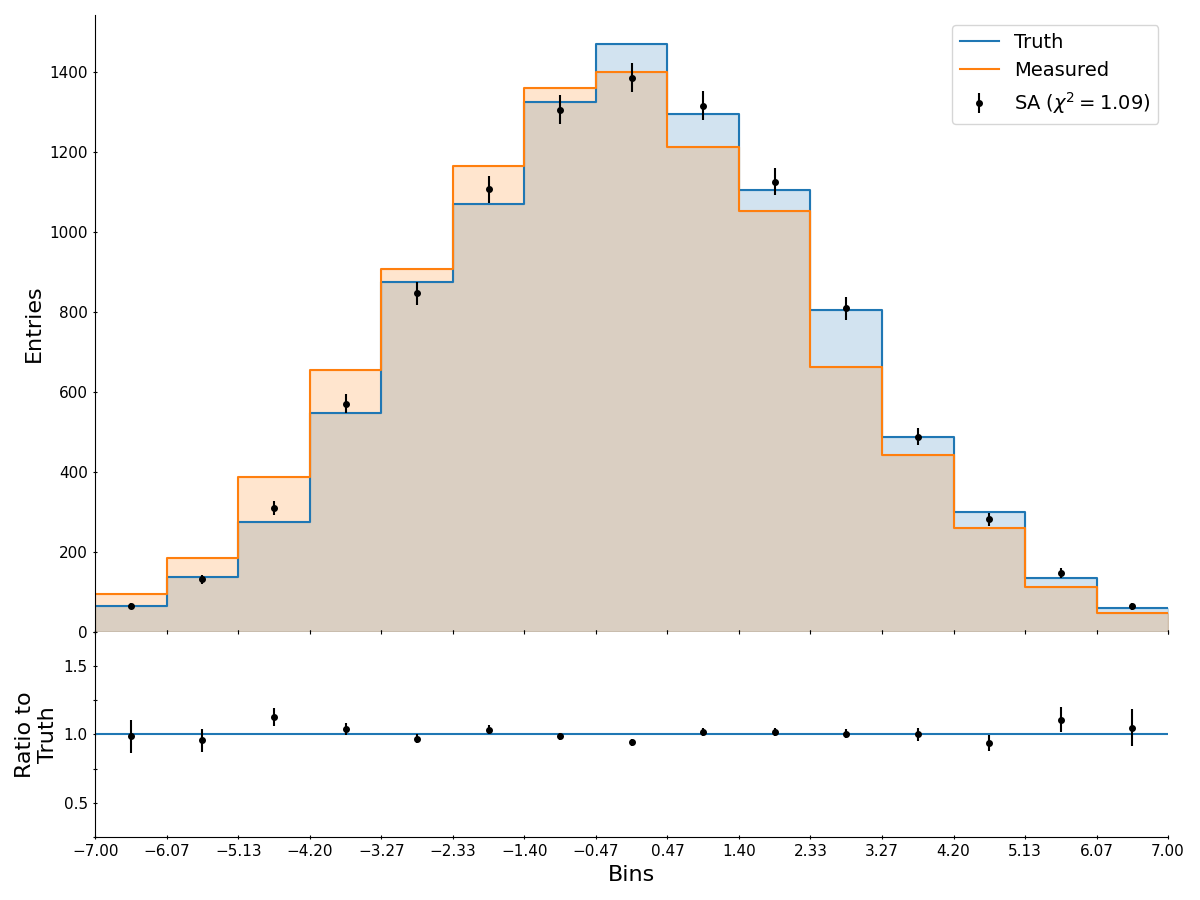
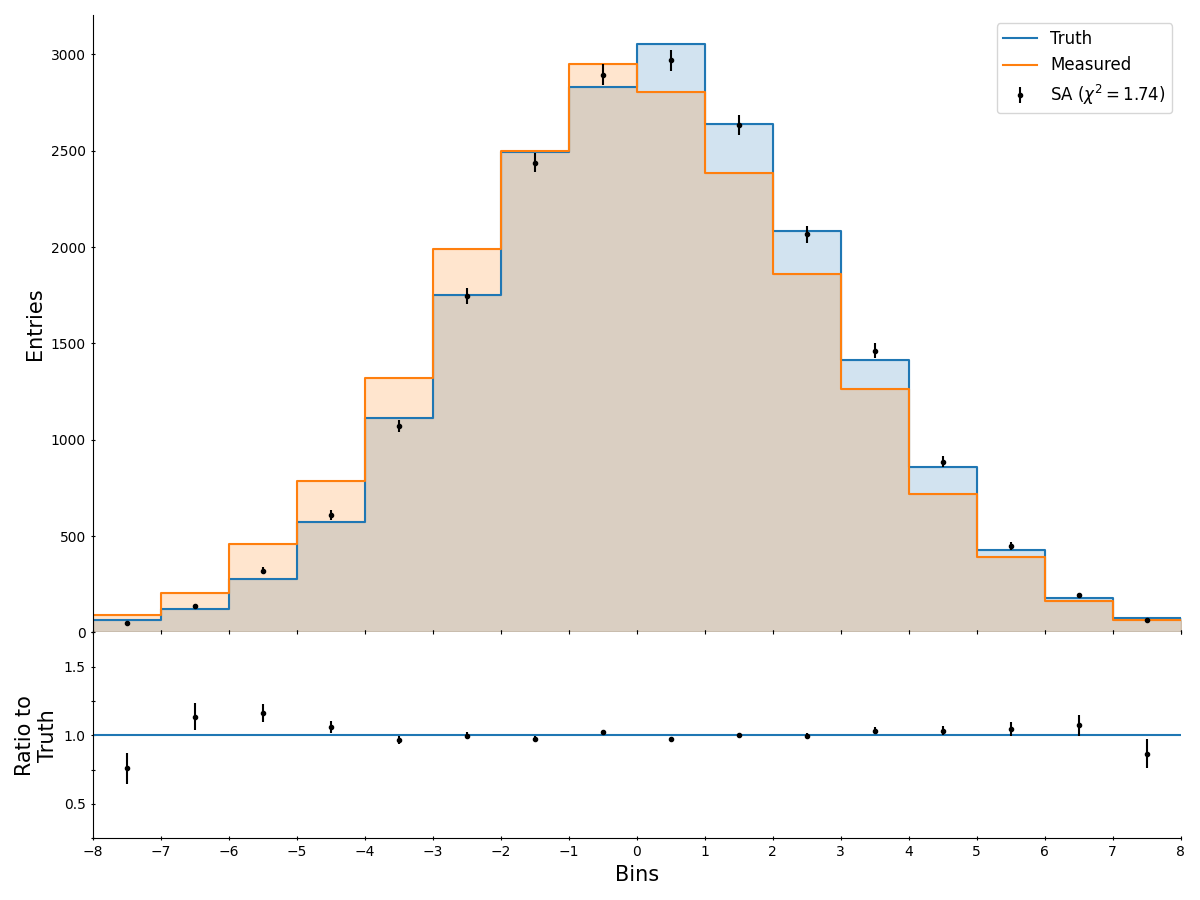
Consider histogram binning to adjust the discrete Laplacian in case of non-equally spaced bins

diff --git a/examples/simneal_script.py b/examples/simneal_script.py
@@ -3,74 +3,57 @@ from QUnfold import QUnfoldQUBO, QUnfoldPlotter
 from QUnfold.utils import normalize_response, lambda_optimizer
 
 
-if __name__ == "__main__":
-    # Set parameters for data generation
-    num_entries = 10000
-    num_bins = 15
-    min_bin = -7.0
-    max_bin = 7.0
-    bins = np.linspace(min_bin, max_bin, num_bins + 1)
-    binning = np.array([-np.inf] + bins.tolist() + [np.inf])
-    mean = 0.0
-    std = 2.6
-    mean_smear = -0.3
-    std_smear = 0.5
+# Set parameters for synthetic data generation
+entries = 20000
+bins = 16
+xrange = np.linspace(start=-8.0, stop=8.0, num=bins + 1).tolist()
+binning = np.array([-np.inf] + xrange + [np.inf])  # under/over-flow bins
+mean, std = (0.23, 2.64)  # normal distribution
+mean_smear, std_smear = (-0.35, 0.69)  # gaussian smearing
 
-    seed = 42
-    np.random.seed(seed)
+# Set random seed for replicability
+seed = 42
+np.random.seed(seed)
 
-    # Generate and normalize response matrix
-    mc_data = np.random.normal(loc=mean, scale=std, size=num_entries)
-    reco_data = mc_data + np.random.normal(
-        loc=mean_smear, scale=std_smear, size=num_entries
-    )
-    response = np.histogram2d(reco_data, mc_data, bins=binning)[0]
-    mc_truth = np.histogram(mc_data, bins=binning)[0]
-    response = normalize_response(response, mc_truth)
+# Generate normalized response matrix from Monte Carlo samples
+truth_mc_data = np.random.normal(loc=mean, scale=std, size=entries)
+smearing_mc = np.random.normal(loc=mean_smear, scale=std_smear, size=entries)
+reco_mc_data = truth_mc_data + smearing_mc
+response = np.histogram2d(reco_mc_data, truth_mc_data, bins=binning)[0]
+truth_mc = np.histogram(truth_mc_data, bins=binning)[0]
+response = normalize_response(response, truth_mc=truth_mc)
 
-    # Generate random true data
-    true_data = np.random.normal(loc=mean, scale=std, size=num_entries)
+# Generate measured histogram applying gaussian smearing
+truth_data = np.random.normal(loc=mean, scale=std, size=entries)
+smearing = np.random.normal(loc=mean_smear, scale=std_smear, size=entries)
+measured_data = truth_data + smearing
+measured = np.histogram(measured_data, bins=binning)[0]
 
-    # Apply gaussian smearing to get measured data
-    meas_data = true_data + np.random.normal(
-        loc=mean_smear, scale=std_smear, size=num_entries
-    )
+# Find optimal value for regularization parameter
+lam = lambda_optimizer(
+    response=response,
+    measured=measured,
+    truth=truth_mc,
+    binning=binning,
+    num_reps=10,
+    seed=seed,
+)
 
-    # Generate truth and measured histograms
-    truth = np.histogram(true_data, bins=binning)[0]
-    measured = np.histogram(meas_data, bins=binning)[0]
+# Run simulated annealing to solve QUBO problem
+unfolder = QUnfoldQUBO(response=response, measured=measured, binning=binning, lam=lam)
+unfolder.initialize_qubo_model()
+sol, err, cov = unfolder.solve_simulated_annealing(num_reads=300, seed=seed)
 
-    # Find optimal value for regularization parameter
-    lam = lambda_optimizer(response, measured, truth, num_reps=20, seed=seed)
-
-    # Run simulated annealing to solve QUBO problem
-    unfolder = QUnfoldQUBO(response, measured, lam=lam)
-    unfolder.initialize_qubo_model()
-    # sol, err, cov = unfolder.solve_gurobi_integer()
-    sol, err, cov = unfolder.solve_simulated_annealing(num_reads=300, seed=seed)
-
-    ################## Quantum Annealing solver ##################
-    """
-    unfolder.set_quantum_device(
-        device_name="Advantage_system6.4",
-        dwave_token="<your_dwave_token>",
-    )
-    unfolder.set_graph_embedding()
-    print("DWave_device =", unfolder._sampler.solver)
-    print("num_logical_qubits =", unfolder.num_logical_qubits)
-    print("num_physical_qubits =", unfolder.num_physical_qubits)
-    sol, err, cov = unfolder.solve_quantum_annealing(num_reads=4000)
-    """
-
-    plotter = QUnfoldPlotter(
-        response=response,
-        measured=measured,
-        truth=truth,
-        unfolded=sol,
-        error=err,
-        covariance=cov,
-        binning=binning,
-        chi2=True,
-    )
-    plotter.save_response("examples/simneal_response.png")
-    plotter.save_histograms("examples/simneal_result.png", method="SA")
+# Plot response and unfolding result and save figures
+plotter = QUnfoldPlotter(
+    response=response,
+    measured=measured,
+    truth=truth_mc,
+    unfolded=sol,
+    error=err,
+    covariance=cov,
+    binning=binning,
+    chi2=True,
+)
+plotter.save_response("examples/simneal_response.png")
+plotter.save_histograms("examples/simneal_result.png", method="SA")

diff --git a/src/QUnfold/QUnfoldQUBO.py b/src/QUnfold/QUnfoldQUBO.py
@@ -17,15 +17,11 @@ except ImportError:
 
 
 class QUnfoldQUBO:
-    def __init__(self, response, measured, lam=0.0):
+    def __init__(self, response, measured, binning, lam=0.0):
         self.R = response
         self.d = measured
+        self.binning = binning
         self.lam = lam
-
-        dim = len(measured)
-        main_d = np.array([0, -1] + [-2] * (dim - 4) + [-1, 0])
-        sup_sub_d = np.array([0] + [1] * (dim - 3) + [0])
-        self.D = np.diag(main_d) + np.diag(sup_sub_d, k=1) + np.diag(sup_sub_d, k=-1)
 
     @property
     def num_bins(self):
@@ -58,7 +54,26 @@ class QUnfoldQUBO:
 
     @property
     def quadratic_coeffs(self):
-        return (self.R.T @ self.R) + self.lam * (self.D.T @ self.D)
+        L = self._get_laplacian()
+        return (self.R.T @ self.R) + self.lam * (L.T @ L)
+
+    def _get_laplacian(self):
+        hs = np.diff(self.binning)
+        n = len(hs)
+        L = np.zeros(shape=(n, n))
+        L[0, 0] = -1 / (hs[0] * hs[1])
+        L[-1, -1] = -1 / (hs[-2] * hs[-1])
+        for i in range(1, n - 1):
+            h_minus = hs[i - 1]
+            h = hs[i]
+            h_plus = hs[i + 1]
+            L[i, i] += -1 / (h_minus * h) - 1 / (h * h_plus)
+            L[i, i + 1] += 1 / (h * (h + h_plus))
+            L[i + 1, i] += 1 / (h_plus * (h + h_plus))
+            L[i, i - 1] += 1 / (h * (h_minus + h))
+            L[i - 1, i] += 1 / (h_minus * (h_minus + h))
+        norm = 2 / np.max(np.abs(L))
+        return norm * L
 
     def _get_qubo_matrix(self):
         dim = self.num_bins
@@ -104,7 +119,7 @@ class QUnfoldQUBO:
     def _run_montecarlo_toys(self, num_toys, prog_bar, num_cores, **kwargs):
         def run_toy(_):
             smeared_d = np.random.poisson(self.d)
-            toy = QUnfoldQUBO(self.R, smeared_d, lam=self.lam)
+            toy = QUnfoldQUBO(self.R, smeared_d, binning=self.binning, lam=self.lam)
             toy.initialize_qubo_model()
             if isinstance(self._sampler, DWaveSampler):
                 embedding = toy._get_graph_embedding()

diff --git a/README.md b/README.md
@@ -74,9 +74,10 @@ from QUnfold import QUnfoldQUBO
 # Define your input response matrix and measured histogram as numpy arrays
 response = ...
 measured = ...
+binning = ...
 
 # Create the QUnfoldQUBO object and initialize the QUBO model
-unfolder = QUnfoldQUBO(response, measured, lam=0.1)
+unfolder = QUnfoldQUBO(response, measured, binning, lam=0.1)
 unfolder.initialize_qubo_model()
 
 # Run one of the available solvers to get the unfolding result
